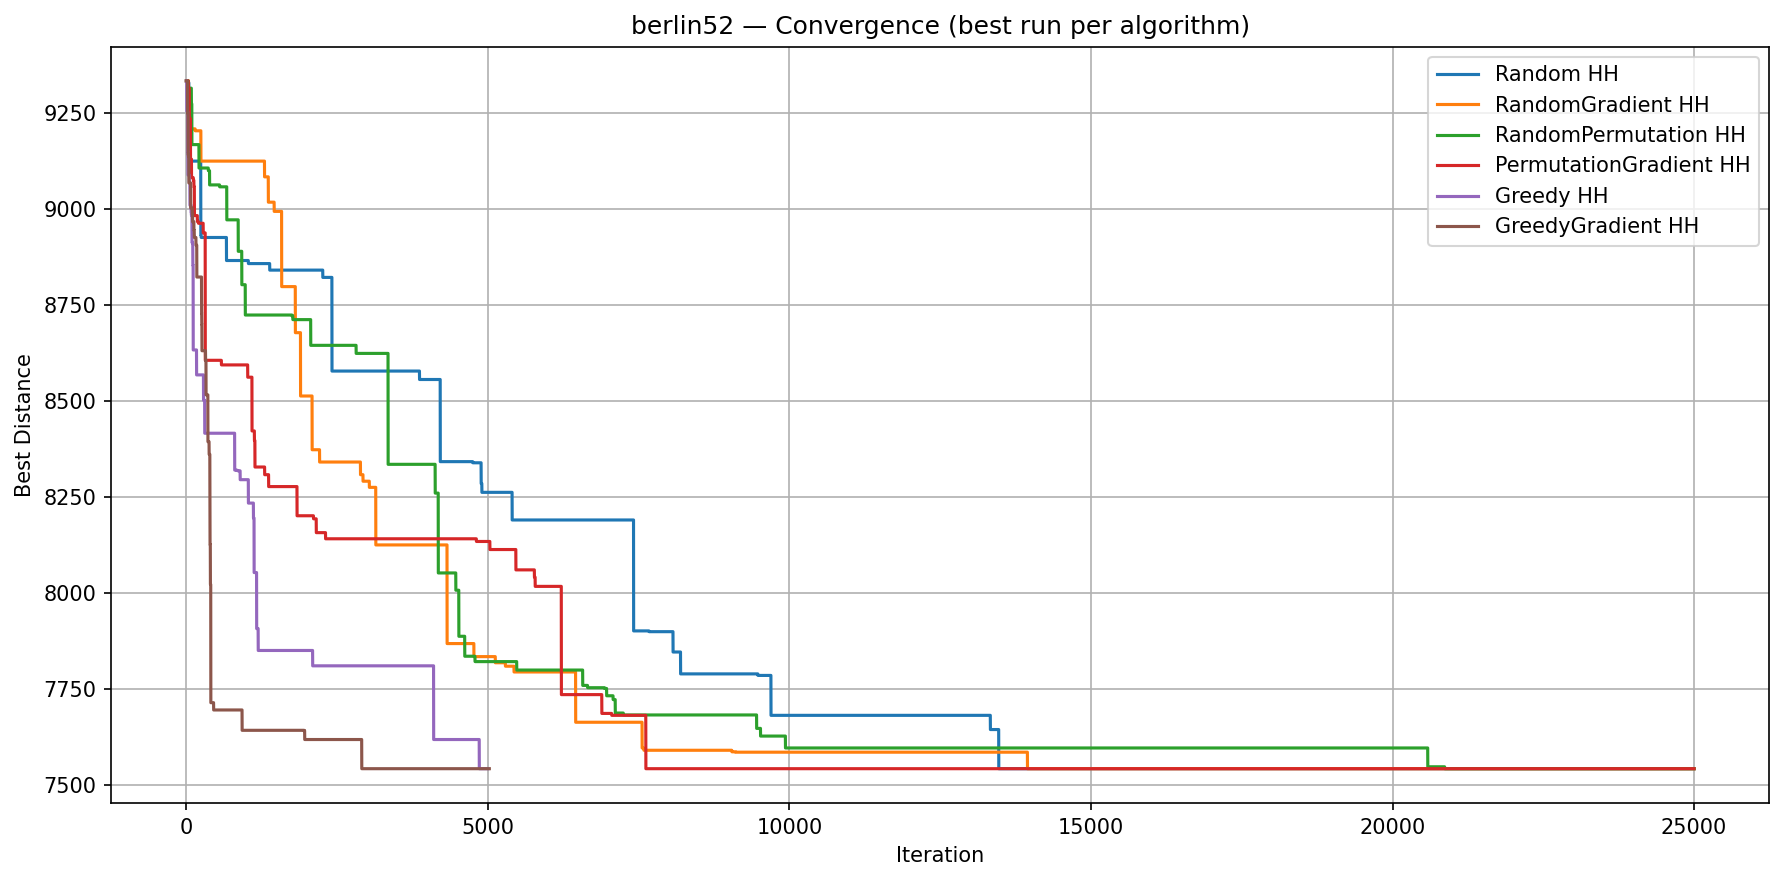
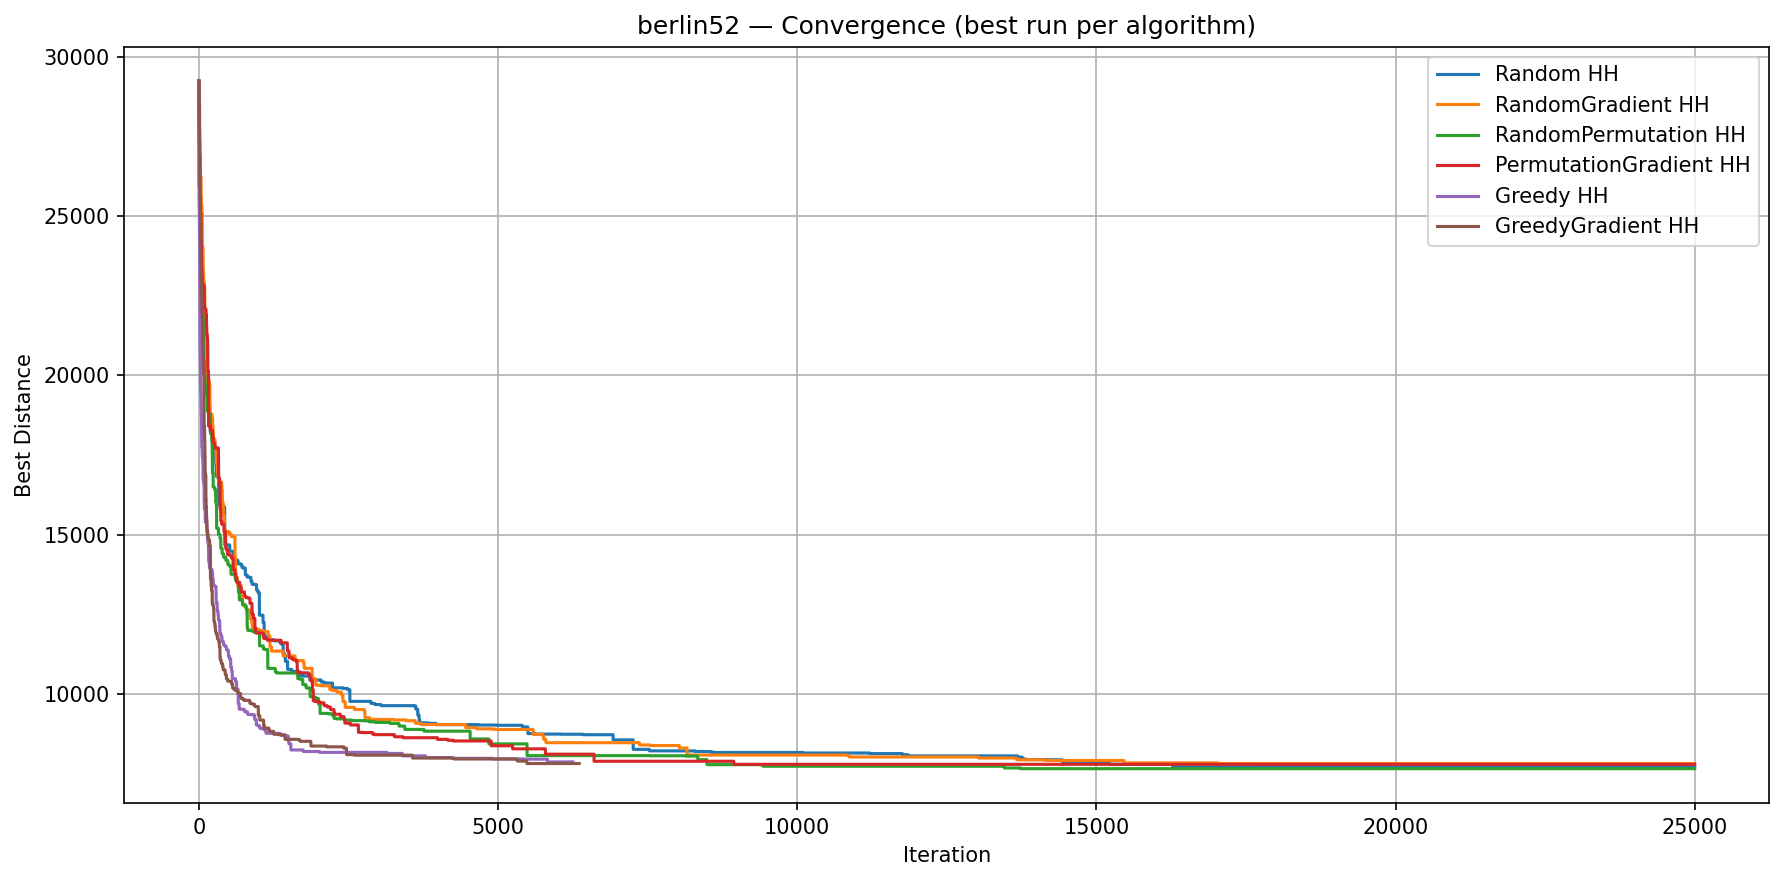
Added knapsack basics. It seems that capacity should stay high, since items are very heavy. Also, the initial solution is very important.

diff --git a/main.py b/main.py
@@ -4,18 +4,20 @@ import numpy as np
 import pandas as pd
 import matplotlib.pyplot as plt
 import tsplib95
+import csv
 
 # Settings
 SEED = 13
-ITERATIONS = 25000
+ITERATIONS = 1000
 RUNS = 10
-DATASETS = [
-    "berlin52",
-    "kroA100"]
-
+# DATASETS = [
+#     "berlin52",
+#     "kroA100"]
+DATASETS = ["datasets/Delivery_Logistics.csv"]
+CAPACITY = 1000
 
 # Loads tsplib datasets. Will probably be deprecated later
-def load_problem(name):
+def load_problem_tsp(name):
     problem = tsplib95.load(f"datasets/{name}.tsp")
     cities = list(problem.get_nodes())
     distance_matrix = {
@@ -25,6 +27,17 @@ def load_problem(name):
 
     return problem, cities, distance_matrix
 
+def load_problem_knapsack(file_path):
+    mode_mapping = {"standard": 1, "two day": 2, "same day": 3, "express": 4}
+    df = pd.read_csv(file_path)
+    result = df[["package_weight_kg", "delivery_mode"]].copy()
+    result["delivery_mode"] = (result["delivery_mode"].astype(str).str.strip().str.lower().map(mode_mapping))
+    result = result.rename(columns={"package_weight_kg": "weight", "delivery_mode": "value"})
+    result["value"] = result["value"].astype(int)
+    result = result.head(300).reset_index(drop=True)
+    weights = result["weight"].to_numpy()
+    values = result["value"].to_numpy()
+    return weights, values
 
 # For calculating the distance
 def route_distance(route, distance_matrix):
@@ -33,8 +46,16 @@ def route_distance(route, distance_matrix):
         current_city = route[i]
         next_city = route[(i + 1) % len(route)]
         total += distance_matrix[(current_city, next_city)]
-
+    
     return total
+# Add penalty if infeasible
+def knapsack_value(solution, weights, values, capacity):
+    total_weight = sum(bit * weight for bit, weight in zip(solution, weights))
+    if total_weight > capacity:
+        return 0
+    
+    total_value = sum(bit * value for bit, value in zip(solution, values))
+    return total_value
 
 # Starting random route
 def random_route(cities):
@@ -57,6 +78,25 @@ def greedy_route(cities, distance_matrix):
 
     return route
 
+def knapsack_random_solution(weights, capacity):
+    """Generate a random feasible solution, not necessarily trying to fill capacity"""
+    n_items = len(weights)
+    solution = [0] * n_items
+    indices = list(range(n_items))
+    random.shuffle(indices)
+    current_weight = 0
+    
+    # Add items randomly until we have at least 1 item or can't add more
+    for idx in indices:
+        if current_weight + weights[idx] <= capacity:
+            solution[idx] = 1
+            current_weight += weights[idx]
+            # Stop after adding a random number of items (1-5) for more exploration
+            if random.random() < 0.3:  # 30% chance to stop early
+                break
+    print(solution)
+    print(current_weight)
+    return solution
 
 # Swap two nodes
 def swap(route):
@@ -99,15 +139,40 @@ tsp_heuristics = [
     ("segment_shuffle", segment_shuffle),
     ("two opt", two_opt),]
 
+def flip_k_bits(solution, k):
+    new_solution = solution.copy()
+    indices = random.sample(range(len(solution)), k)
+    for idx in indices:
+        new_solution[idx] = 1 - new_solution[idx]
+    return new_solution
+
+
+def one_bit_flip(solution):
+    return flip_k_bits(solution, 1)
+
+def two_bit_flip(solution):
+    return flip_k_bits(solution, 2)
+
+def three_bit_flip(solution):
+    return flip_k_bits(solution, 3)
+
+def four_bit_flip(solution):
+    return flip_k_bits(solution, 4)
+# Add something that has a chance to flip all bits. 1/prob
+knapsack_heuristics = [
+    ("one_bit_flip", one_bit_flip),
+    ("two_bit_flip", two_bit_flip),
+    ("three_bit_flip", three_bit_flip),
+    ("four_bit_flip", four_bit_flip),]
 
 # For keeping track of which heuristics were used
-def initialize_stats():
+def initialize_stats(heuristics = tsp_heuristics):
     return {name: {
             "used": 0,
             "improvements": 0,
             "total_gain": 0,
             "best_single_gain": 0}
-        for name, _ in tsp_heuristics}
+        for name, _ in heuristics}
 
 
 def random_hyperheuristic(initial_solution, objective_fn, heuristics, iterations=25000):
@@ -119,7 +184,7 @@ def random_hyperheuristic(initial_solution, objective_fn, heuristics, iterations
     best = current[:]
     best_cost = current_cost
     history = [best_cost]
-    heuristic_stats = initialize_stats()
+    heuristic_stats = initialize_stats(heuristics)
     heuristic_history = []
     start_time = time.time()
 
@@ -162,7 +227,6 @@ def random_hyperheuristic(initial_solution, objective_fn, heuristics, iterations
             "runtime": runtime}
 
 
-
 def random_gradient(initial_solution, objective_fn, heuristics, iterations=25000):
     # objective_fn(solution) is always minimised.
     # For maximisation problems like knapsack, use a negative objective.
@@ -174,7 +238,7 @@ def random_gradient(initial_solution, objective_fn, heuristics, iterations=25000
     best_cost = current_cost
 
     history = [best_cost]
-    heuristic_stats = initialize_stats()
+    heuristic_stats = initialize_stats(heuristics)
     heuristic_history = []
     heuristic_name, heuristic = random.choice(heuristics)
     start_time = time.time()
@@ -228,7 +292,7 @@ def random_permutation(initial_solution, objective_fn, heuristics, iterations=25
     best = current[:]
     best_cost = current_cost
     history = [best_cost]
-    heuristic_stats = initialize_stats()
+    heuristic_stats = initialize_stats(heuristics)
     heuristic_history = []
     start_time = time.time()
 
@@ -284,7 +348,7 @@ def permutation_gradient(initial_solution, objective_fn, heuristics, iterations=
     best = current[:]
     best_cost = current_cost
     history = [best_cost]
-    heuristic_stats = initialize_stats()
+    heuristic_stats = initialize_stats(heuristics)
     heuristic_history = []
     start_time = time.time()
 
@@ -344,7 +408,7 @@ def greedy(initial_solution, objective_fn, heuristics, iterations=25000):
     best = current[:]
     best_cost = current_cost
     history = [best_cost]
-    heuristic_stats = initialize_stats()
+    heuristic_stats = initialize_stats(heuristics)
     heuristic_history = []
     start_time = time.time()
     iteration = 0
@@ -407,7 +471,7 @@ def greedy_gradient(initial_solution, objective_fn, heuristics, iterations=25000
     best = current[:]
     best_cost = current_cost
     history = [best_cost]
-    heuristic_stats = initialize_stats()
+    heuristic_stats = initialize_stats(heuristics)
     heuristic_history = []
     start_time = time.time()
     iteration = 0
@@ -537,12 +601,6 @@ if __name__ == "__main__":
     for dataset_name in DATASETS:
 
         print(f"Dataset: {dataset_name}")
-        problem, cities, distance_matrix = load_problem(dataset_name)
-
-        # TSP objective: minimise total route distance
-        def tsp_objective(route):
-            return route_distance(route, distance_matrix)
-
         algorithms = [
             ("Random HH",            random_hyperheuristic),
             ("RandomGradient HH",    random_gradient),
@@ -553,20 +611,29 @@ if __name__ == "__main__":
 
         all_run_results = {label: [] for label, _ in algorithms}
 
-        # How the starting route is selected
-        initial = greedy_route(cities, distance_matrix)
+        # TSP settings.
+        # problem, cities, distance_matrix = load_problem(dataset_name)
+        # def tsp_objective(route):
+        #     return route_distance(route, distance_matrix)
         # initial = random_route(cities)
+        # objective = tsp_objective
+        # heuristics = tsp_heuristics
+
+        # Knapsack settings
+        weights, values = load_problem_knapsack(dataset_name)
+        def knapsack_objective(solution):
+            return -knapsack_value(solution, weights, values, CAPACITY)
+        initial = knapsack_random_solution(weights, CAPACITY)
+        objective = knapsack_objective
+        heuristics = knapsack_heuristics
 
         for run in range(RUNS):
-
             print(f"Run {run + 1}/{RUNS}")
-            random.seed(SEED + run)
-            np.random.seed(SEED + run)
 
             for label, runner in algorithms:
                 random.seed(SEED + run)
                 np.random.seed(SEED + run)
-                result = runner(initial, tsp_objective, tsp_heuristics, ITERATIONS)
+                result = runner(initial, objective, heuristics, ITERATIONS)
                 all_run_results[label].append(result)
 
         dataset_row = {"dataset": dataset_name}
@@ -593,7 +660,7 @@ if __name__ == "__main__":
             plt.plot(best_result["history"], label=label)
 
         plt.xlabel("Iteration")
-        plt.ylabel("Best Distance")
+        plt.ylabel("Best Value")
         plt.title(f"{dataset_name} — Convergence (best run per algorithm)")
         plt.legend()
         plt.grid(True)

diff --git a/test.py b/test.py
@@ -1,7 +1,20 @@
 import main
 # route = [1, 5, 3, 6, 2, 4, 7, 8, 9, 10]
-route = ["a", "b", "c", "d", "e", "f", "g", "h"]
-print(main.insertion(route))
-print(main.two_opt(route))
-print(main.swap(route))
-print(main.segment_shuffle(route))
+# route = ["a", "b", "c", "d", "e", "f", "g", "h"]
+# print(main.insertion(route))
+# print(main.two_opt(route))
+# print(main.swap(route))
+# print(main.segment_shuffle(route))
+
+weights, values = main.load_problem_knapsack("datasets/Delivery_Logistics.csv")
+# print(values)
+solution = main.knapsack_random_solution(weights, 1000)
+print(main.knapsack_value(solution, weights, values, 1000))
+
+solution = [1,0,0,1,0,1,1,1,0,1,1,1,0,1,1]
+print(solution)
+print(main.one_bit_flip(solution))
+print(main.two_bit_flip(solution))
+print(main.three_bit_flip(solution))
+print(main.four_bit_flip(solution))
+# print(main.knapsack_value(solution, weights, values, 100))
